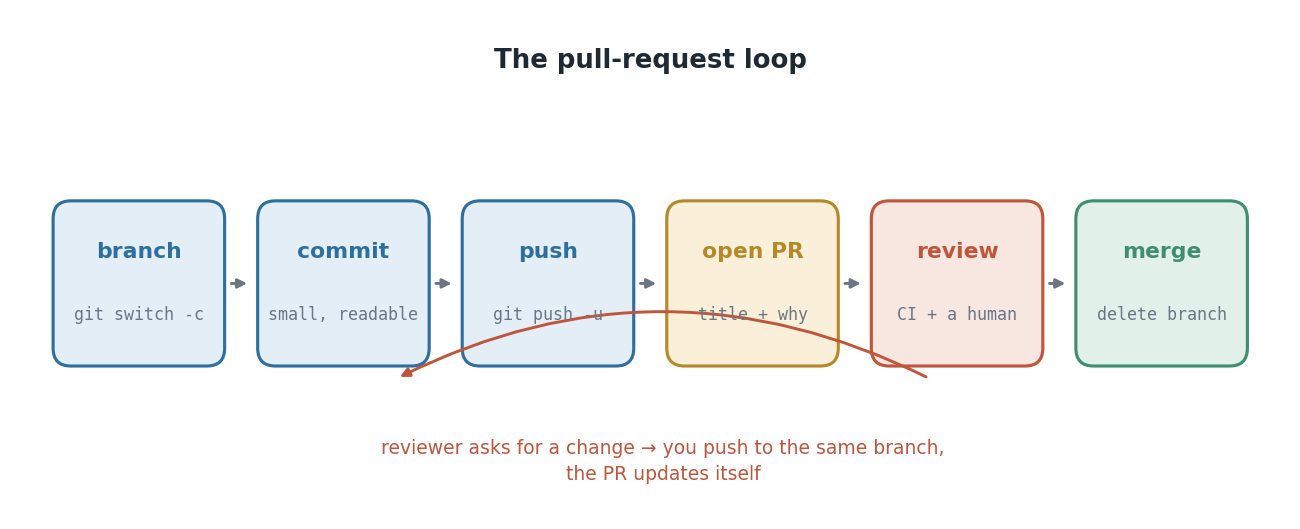
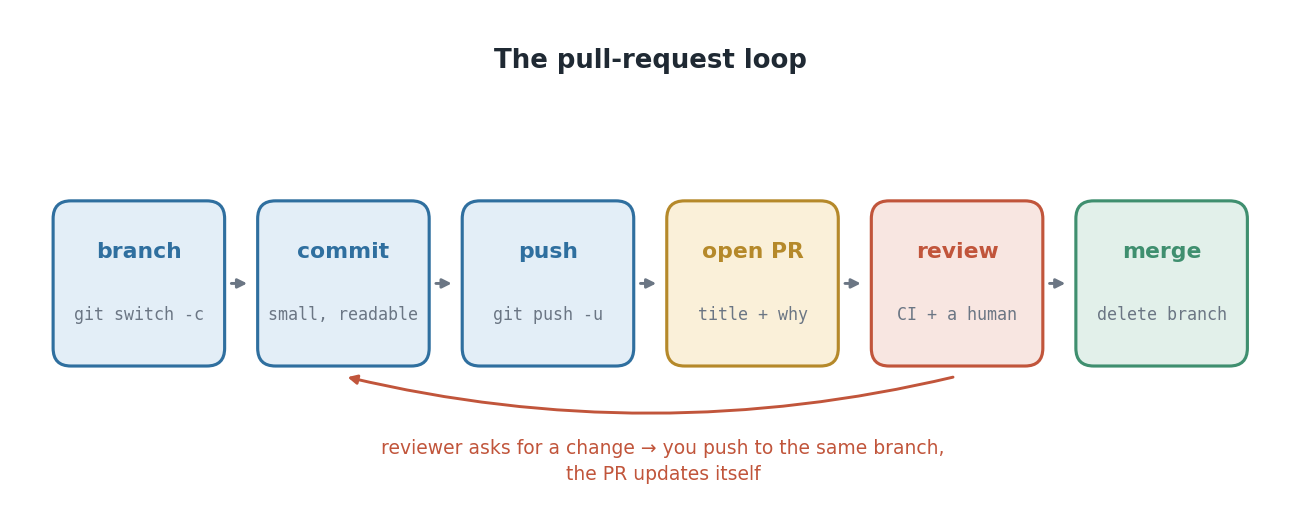
Route the feedback arcs under the boxes, and add the shell to the toolchain
Three figures drew their feedback arrow straight through the boxes it was meant
to loop beneath. One cause: arc3 puts its control point at
midpoint + rad*(dy, -dx), so the sign that hides the arc flips with the arrow's
direction, and each of these had it backwards.

  * pr-lifecycle    review -> commit, control point at y=23.5 inside boxes 14..27
  * notebook-to-package  the dotted loop struck through "has to be right"
  * three-diffs     same defect mirrored, being left-to-right

Each now bows into the empty band between the boxes and the caption, and the
endpoints are derived from the box centres rather than eyeballed, so they stay
put if the row is re-laid out.

Separately, the shell joins Accounts & Toolchain as the sixth thing to have. It
sits between git and uv because that is where it is true: on Windows it is what
the git installer just handed you (Git Bash), and it is what the uv install line
is typed into. The step-3 PowerShell warning moves into it rather than being
said twice.

Claude-Session: https://claude.ai/code/session_01Sj8aQTM6V9whNfQfvzhm8J

diff --git a/courseware/tools/figures/s1_git_and_packaging.py b/courseware/tools/figures/s1_git_and_packaging.py
@@ -248,22 +248,27 @@ def accounts_and_tools() -> None:
     lesson = "accounts-and-tools"
 
     fig, ax = canvas(11, 5.2)
+    # A shell sits between git and uv: on Windows it is what the git installer
+    # just handed you (Git Bash), and it is what the uv install line is typed
+    # into. Six boxes need a narrower one than five did, so w/gap shrink to keep
+    # the row centred on the same span.
     items = [
         ("GitHub", "account", "where the work\nis handed in", WARM_BG, WARM),
         ("VS Code", "install", "editor, terminal,\nnotebooks, agent", ACCENT_BG, ACCENT),
         ("git", "install", "the version\ncontrol client", GOLD_BG, GOLD),
+        ("a shell", "set up", "where every\ncommand runs", GREY_BG, MUTED),
         ("uv", "install", "Python + envs\n+ packages", GREEN_BG, GREEN),
         ("Colab", "account", "a GPU you\ndo not own", ACCENT_BG, ACCENT),
     ]
-    w, gap = 16.0, 3.5
-    x = 4.0
+    w, gap, h = 13.8, 2.6, 21.0
+    x = (100.0 - (len(items) * w + (len(items) - 1) * gap)) / 2
     for name, kind, why, fc, ec in items:
-        box(ax, x, 12, w, 24, fc=fc, ec=ec, lw=1.5)
-        label(ax, x + w / 2, 32.5, name, fs=13, weight="bold", color=ec)
-        label(ax, x + w / 2, 28.4, kind, fs=8.5, color=MUTED, mono=True)
-        label(ax, x + w / 2, 20.5, why, fs=9, color=INK)
+        box(ax, x, 12, w, h, fc=fc, ec=ec, lw=1.5)
+        label(ax, x + w / 2, 29.5, name, fs=12, weight="bold", color=ec)
+        label(ax, x + w / 2, 25.6, kind, fs=8.5, color=MUTED, mono=True)
+        label(ax, x + w / 2, 18.0, why, fs=8.5, color=INK)
         x += w + gap
-    label(ax, 50, 42, "Five things, thirty minutes, once", fs=13, weight="bold")
+    label(ax, 50, 42, "Six things, thirty minutes, once", fs=13, weight="bold")
     caption(ax, 50, 6.5,
             "If any one of these is missing you spend Session 3 debugging it "
             "instead of training a model.")
@@ -455,7 +460,9 @@ def git_essentials() -> None:
     label(ax, 35, 27, "git diff", fs=9, mono=True)
     arrow(ax, (62.5, 23), (67.5, 23), color=INK, style="<|-|>")
     label(ax, 65, 27, "git diff --staged", fs=9, mono=True)
-    arrow(ax, (20, 12), (80, 12), color=MUTED, style="<|-|>", rad=-0.12)
+    # Left-to-right, so the sign is mirrored from the two above: rad=-0.12 was
+    # the one lifting this span into the boxes (14..26). Positive drops it clear.
+    arrow(ax, (20, 12), (80, 12), color=MUTED, style="<|-|>", rad=0.10)
     label(ax, 50, 5.5, "git diff HEAD", fs=9, mono=True, color=MUTED)
     caption(ax, 50, 1.0, "\"My change is not in the diff\" nearly always means it is already staged.")
     save(fig, lesson, "three-diffs.png")
@@ -566,7 +573,14 @@ def pull_requests() -> None:
         if x > 3.0:
             arrow(ax, (x - gap + 0.2, 20.5), (x - 0.5, 20.5), color=MUTED, lw=1.4)
         x += w + gap
-    arrow(ax, (72, 13), (30, 13), color=WARM, lw=1.4, rad=0.25)
+    # The rework arrow, review -> commit, routed UNDER the row. arc3 puts its
+    # control point at midpoint + rad*(dy, -dx), so on a right-to-left arrow a
+    # POSITIVE rad lifts the curve into the boxes (rad=0.25 landed it at y=23.5,
+    # drawing the arc straight through "open PR" and "push"). Negative bows it
+    # down into the empty band between the boxes (bottom y=14) and the caption.
+    centre = lambda i: 3.0 + i * (w + gap) + w / 2
+    arrow(ax, (centre(4), 13.2), (centre(1), 13.2),
+          color=WARM, lw=1.4, rad=-0.12)
     label(ax, 51, 6.5, "reviewer asks for a change → you push to the same branch,\nthe PR updates itself",
           fs=9, color=WARM)
     save(fig, lesson, "pr-lifecycle.png")
@@ -918,7 +932,11 @@ def notebooks_and_colab() -> None:
     label(ax, 33, 24, "extract", fs=8.5, mono=True)
     arrow(ax, (62.5, 20), (71.5, 20), color=INK)
     label(ax, 67, 24, "pip install", fs=8.5, mono=True)
-    arrow(ax, (84, 11), (16, 11), color=MUTED, rad=0.16, lw=1.2, ls=":")
+    # Same arc3 trap as pr-lifecycle: right-to-left with a positive rad puts the
+    # control point at y=21.9, inside the boxes (12..28), so the dotted loop drew
+    # a strike-through across "the version that has to be right". Negative bows
+    # it into the gap under the row instead.
+    arrow(ax, (84, 11), (16, 11), color=MUTED, rad=-0.10, lw=1.2, ls=":")
     label(ax, 50, 4.5, "the loop, not a one-way trip", fs=9, color=MUTED, style="italic")
     save(fig, lesson, "notebook-to-package.png")
 

diff --git a/courseware/content/python-ai-engineering/s1-git-and-packaging/accounts-and-tools.md b/courseware/content/python-ai-engineering/s1-git-and-packaging/accounts-and-tools.md
@@ -1,6 +1,6 @@
 # Accounts & Toolchain
 
-Five things to install or sign up for, once. Do them now, together, in the room:
+Six things to install or sign up for, once. Do them now, together, in the room:
 this is what stops Session 3 from being about Python installation.
 
 <!-- notes: 20-30 minutes, everyone on keyboards, walk the room. Do NOT lecture
@@ -10,7 +10,7 @@ board and leave them there. -->
 
 ---
 
-## The five
+## The six
 
 ![The toolchain](assets/s1-git-and-packaging/accounts-and-tools/toolchain.png)
 
@@ -23,6 +23,7 @@ board and leave them there. -->
 | **GitHub account** | free | every deliverable this year is a repository URL |
 | **VS Code** | free | one window: editor, terminal, notebook, agent |
 | **git** | free | the client that talks to GitHub |
+| **a POSIX shell** | free | where every command in this course is typed |
 | **uv** | free | Python versions, environments, packages, one tool |
 | **Google account** | free | Colab, for the sessions that need a GPU |
 
@@ -88,10 +89,8 @@ working directory every command in this course assumes.
 git --version
 ```
 
-**Windows students:** the installer includes **Git Bash**. Use it — or WSL — as
-your terminal for this course. Every shell command in these lessons is written
-for a POSIX shell; PowerShell has different names for most of them, and mixing
-the two is a reliable way to lose an afternoon.
+**Windows students:** tick **Git Bash** in the installer. It is the shell you
+will use for the rest of the course — step 4.
 
 Set your identity before your first commit:
 
@@ -103,7 +102,38 @@ git config --global init.defaultBranch main
 
 ---
 
-## 4 — uv
+## 4 — A shell
+
+Every command in this course is written for a **POSIX shell**. You need one that
+speaks that language before the next install line will work.
+
+| Platform | What to use |
+|---|---|
+| macOS | Terminal, or the VS Code terminal — already there |
+| Linux | your terminal — already there |
+| Windows | **Git Bash**, installed with git in step 3 — or WSL |
+
+```bash
+echo $SHELL
+```
+
+A path like `/bin/zsh` or `/usr/bin/bash` means you are in the right place. If
+that prints `$SHELL` back at you literally, you are in PowerShell or `cmd`:
+close it and open Git Bash.
+
+This is not a style preference. PowerShell has different names for most of these
+commands, and mixing the two is the reliable way to lose an afternoon. *The
+Shell* — the next lesson — is the whole story; this step is just making sure you
+have one to type into.
+
+<!-- notes: the Windows half of the room is the only part that has work to do
+here, and Git Bash arrives with the step-3 installer, so it is usually already
+done. Do not spend more than three minutes. WSL is the better long-term answer
+but not a thing to start installing in the room. -->
+
+---
+
+## 5 — uv
 
 One binary that replaces `pyenv`, `virtualenv`, `pip` and `pip-tools`.
 
@@ -126,7 +156,7 @@ the terminal and open a new one. *The Shell* explains the mechanism.
 
 ---
 
-## 5 — Google / Colab
+## 6 — Google / Colab
 
 Open [colab.research.google.com](https://colab.research.google.com), create a
 notebook, and run one cell:
@@ -162,6 +192,9 @@ uv --version
 uv run --python 3.12 python -c "print('python ok')"
 code --version
 ```
+
+That these four *run at all* is the shell check — you are typing them into the
+one from step 4.
 
 <!-- notes: `code --version` fails on macOS until the student runs "Shell
 Command: Install 'code' command in PATH" from the palette. It is not important —
